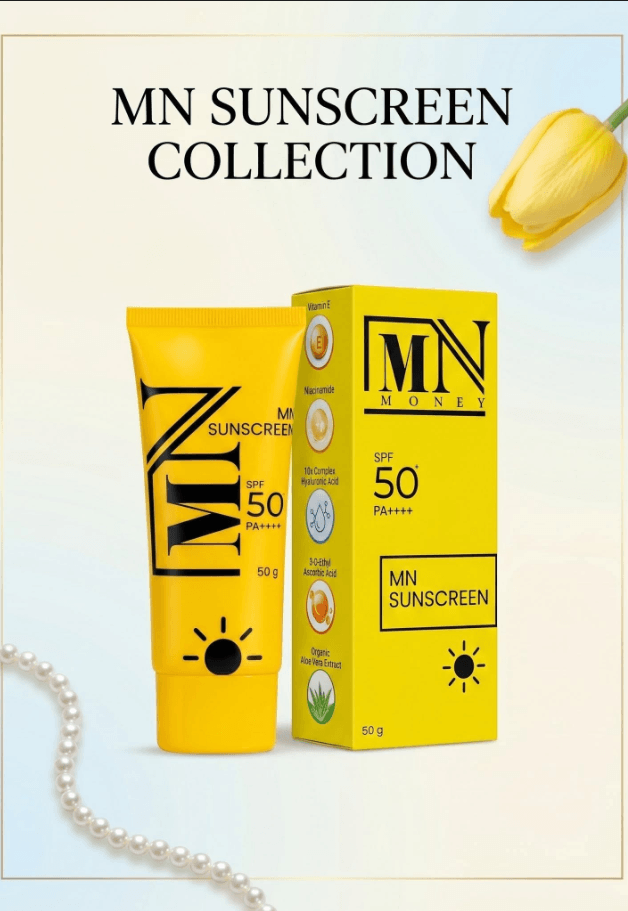
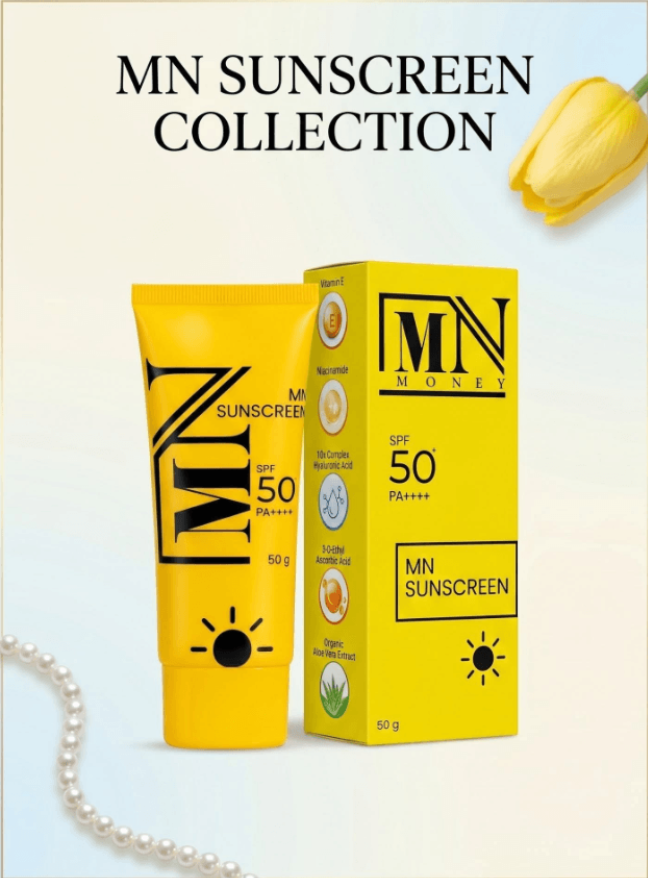
last push

diff --git a/style.css b/style.css
@@ -306,7 +306,8 @@ p {
 }
 
 .img-placeholder {
-  background: linear-gradient(135deg, var(--color-beige) 0%, var(--color-pink) 100%);
+  
+  background: black;
   display: grid;
   place-items: center;
   color: rgba(255, 255, 255, 0.85);
@@ -316,7 +317,9 @@ p {
   border-radius: var(--radius-md);
 }
 .img-placeholder-home {
-  background: linear-gradient(135deg, var(--color-beige) 0%, var(--color-pink) 100%);
+  width: 100%;
+  overflow: hidden;
+  background: black;
   display: grid;
   place-items: center;
   color: rgba(255, 255, 255, 0.85);
@@ -327,13 +330,13 @@ p {
 }
 
 .img-placeholder.alt-1 { 
-  background: linear-gradient(135deg, var(--color-pink-soft), var(--color-pink-deep)); 
+  background: black; 
 }
 .img-placeholder.alt-2 { 
-  background: linear-gradient(135deg, var(--color-beige-deep), var(--color-gold)); 
+  background: black; 
 }
 .img-placeholder.alt-3 { 
-  background: linear-gradient(135deg, var(--color-cream), var(--color-beige)); 
+ background: black; 
   color: var(--color-gold-deep); 
 }
 
@@ -367,7 +370,7 @@ p {
   place-items: center;
   font-family: var(--font-display);
   font-size: 9rem;
-  color: rgba(255, 255, 255, 0.55);
+  color: rgba(255, 255, 255, 0.391);
   letter-spacing: 8px;
 }
 
@@ -376,6 +379,7 @@ p {
 }
 
 .product-grid {
+  background: #000;
   display: grid;
   grid-template-columns: repeat(auto-fit, minmax(260px, 1fr));
   gap: 40px;
@@ -392,7 +396,6 @@ p {
 }
 
 .product-card:hover {
-  transform: translateY(-8px);
   box-shadow: var(--shadow-card);
 }
 
@@ -409,7 +412,7 @@ p {
 }
 
 .btn-cart {
-  display:f;
+  margin-top: 20px;
   border: #000;
   border-radius: 10px;
   cursor: pointer;
@@ -448,13 +451,19 @@ p {
 }
 
 .price {
+  margin-top: -20px;
+  margin-bottom: -20px;
   font-family: var(--font-display);
   font-size: 1.3rem;
   color: var(--color-gold-deep);
   font-weight: 600;
 }
 
-.stars { color: var(--color-gold); font-size: 0.85rem; margin-bottom: 6px; }
+.stars { 
+  color: var(--color-gold); 
+  font-size: 0.85rem; 
+  margin: -9px 0 0 0; 
+}
 
 .product-card .badge {
   position: absolute;
@@ -490,7 +499,7 @@ p {
   border-radius: 16px;
   overflow: hidden;
   aspect-ratio: 1 / 1;
-  background: var(--color-white);
+  background: rgb(0, 0, 0);
   box-shadow: 0 4px 16px rgba(0, 0, 0, 0.08);
   transition: transform 0.3s ease, box-shadow 0.3s ease;
 }
@@ -632,6 +641,7 @@ p {
 }
 
 .dist-hero {
+  
   height: 1000px;
   width: 100%;
   padding: 120px 0 80px;
@@ -1755,7 +1765,7 @@ p {
 
 .footer-grid {
   display: grid;
-  grid-template-columns: 1.4fr 1.4fr 1.4fr;
+  grid-template-columns: 1.4fr 1.4fr 1.5fr;
   gap: 40px;
   margin-bottom: 50px;
 }
@@ -1968,7 +1978,7 @@ p {
     margin: -20px 2px;
   }
   .about-section { 
-    padding: 60px 24px; 
+    padding: 30px 24px; 
     min-height: unset; 
   }
   .about-grid    { 
@@ -2041,6 +2051,7 @@ p {
     max-width: 420px; 
   }
 
+
   .location-wrapper { 
     flex-direction: column; 
   }
@@ -2048,6 +2059,10 @@ p {
     aspect-ratio: 4 / 3; 
   }
 
+  .talk-section    {
+    padding: 56px 20px 48px; 
+    margin-top: 40px;
+  }
   .process-section { 
     padding: 64px 20px 80px; 
   }
@@ -2206,6 +2221,7 @@ p {
   }
   .talk-section    {
     padding: 56px 20px 48px; 
+    margin-top: 40px;
   }
   .about-img-wrap{
     margin-left: 40px;

diff --git a/index.html b/index.html
@@ -43,7 +43,7 @@
   <section class="secton-home">
     <div class="container hero-grid-home">
       <div class="hero-visual">
-        <img src="img/image copy 12.png" alt="Owner of MN Skincare" class="hero-image" />
+        <img style="position: absolute;" src="img/image copy 12.png" alt="Owner of MN Skincare"  />
       </div>
       <div class="hero-content-home">
         <h1>MN Skincare Shopping</h1>
@@ -56,8 +56,8 @@
     </div>
   </section>
 
-  <section class="section" id="1" style="background-color: black; margin-top: 100px;">
-    <div class="container">
+  <section class="section" id="1" style="background-color: black; margin-top: 100px; ">
+    <div class="container" >
       <div class="section-title">
         <span class="eyebrow">Best Sellers</span>
         <h2>Best Seller in Stock</h2>
@@ -344,15 +344,14 @@
             <li><i class="bi bi-map" style="margin-right: 10px;"></i>Phnom Penh, Cambodia</li>
             <li><i class="bi bi-telephone" style="margin-right: 10px;"></i>[phone redacted]</li>
             <li><i class="bi bi-telephone" style="margin-right: 10px;"></i>[phone redacted]</li>
-            <li><i class="bi bi-envelope" style="margin-right: 10px;"></i><span style="font-size: 11px;">[email redacted]</span></li>
-            <li><i class="bi bi-envelope" style="margin-right: 10px;"></i><span style="font-size: 10px;">[email redacted]</span></li>
+            <li><i class="bi bi-envelope" style="margin-right: 10px;"></i><span>[email redacted]</span></li>
+            <li><i class="bi bi-envelope" style="margin-right: 10px;"></i><span>[email redacted]</span></li>
           </ul>
         </div>
-
       </div>
     </div>
     <hr>
-    <p style="text-align: center; margin-top: 30px;">"Chey Menghout" 2026 © For educational purposes only.</p>
+    <p style="text-align: center; margin-top: 30px;">"[email redacted]" 2026 © For educational purposes only.</p>
   </footer>
 
 </body>

diff --git a/about.html b/about.html
@@ -33,7 +33,7 @@
     </ul>
   </nav>
 
-   <section class="about-section" style="margin-top: 60px;">
+   <section class="about-section" style="margin-top: 40px;">
     <div class="about-bg">
       <div class="bg-slide slide-1"></div>
       <div class="bg-slide slide-2"></div>
@@ -46,7 +46,7 @@
 
     <div class="container-about about-grid">
       <div class="about-img-wrap">
-        <img src="img/image copy 68.png" alt="MN Beauty">
+        <img style="position: static;" src="img/image copy 68.png" alt="MN Beauty">
       </div>
       <div class="about-content">
         <span class="eyebrow">Story of MN</span>
@@ -264,15 +264,15 @@
             <li><i class="bi bi-map" style="margin-right: 10px;"></i>Phnom Penh, Cambodia</li>
             <li><i class="bi bi-telephone" style="margin-right: 10px;"></i>[phone redacted]</li>
             <li><i class="bi bi-telephone" style="margin-right: 10px;"></i>[phone redacted]</li>
-            <li><i class="bi bi-envelope" style="margin-right: 10px;"></i><span style="font-size: 11px;">[email redacted]</span></li>
-            <li><i class="bi bi-envelope" style="margin-right: 10px;"></i><span style="font-size: 10px;">[email redacted]</span></li>
+            <li><i class="bi bi-envelope" style="margin-right: 10px;"></i><span >[email redacted]</span></li>
+            <li><i class="bi bi-envelope" style="margin-right: 10px;"></i><span >[email redacted]</span></li>
           </ul>
         </div>
 
       </div>
     </div>
     <hr>
-    <p style="text-align: center; margin-top: 30px;">"Chey Menghout" 2026 © For educational purposes only.</p>
+    <p style="text-align: center; margin-top: 30px;">"[email redacted]" 2026 © For educational purposes only.</p>
   
   </footer>
 

diff --git a/services.html b/services.html
@@ -315,7 +315,7 @@
             <h3>Mask MN</h3>
             <div class="price">1,500៛</div>
 
-<button class="btn-cart" aria-label="Add to cart">
+            <button class="btn-cart" aria-label="Add to cart">
               <i class="bi bi-cart">Add to cart</i>
             </button>          </div>
         </a>
@@ -327,7 +327,7 @@
   <section class="section" id="services" style="margin-top: 10px;">
     <div class="container about-grid services-container">
       <div>
-        <img src="img/image copy 47.png" alt="MN Collection" class="about-image" style="border-radius: 100px;">
+        <img style="position: static;" src="img/image copy 47.png" alt="MN Collection" class="about-image" style="border-radius: 100px;">
       </div>
       <div class="services-content">
         <span class="eyebrow" style="background-color: var(--color-beige); padding: 12px; border-radius: 12px;">MN COLLECTION</span>
@@ -644,15 +644,15 @@
             <li><i class="bi bi-map" style="margin-right: 10px;"></i>Phnom Penh, Cambodia</li>
             <li><i class="bi bi-telephone" style="margin-right: 10px;"></i>[phone redacted]</li>
             <li><i class="bi bi-telephone" style="margin-right: 10px;"></i>[phone redacted]</li>
-            <li><i class="bi bi-envelope" style="margin-right: 10px;"></i><span style="font-size: 11px;">[email redacted]</span></li>
-            <li><i class="bi bi-envelope" style="margin-right: 10px;"></i><span style="font-size: 10px;">[email redacted]</span></li>
+            <li><i class="bi bi-envelope" style="margin-right: 10px;"></i><span >[email redacted]</span></li>
+            <li><i class="bi bi-envelope" style="margin-right: 10px;"></i><span >[email redacted]</span></li>
           </ul>
         </div>
 
       </div>
     </div>
     <hr>
-    <p style="text-align: center; margin-top: 30px;">"Chey Menghout" 2026 © For educational purposes only.</p>
+    <p style="text-align: center; margin-top: 30px;">"[email redacted]" 2026 © For educational purposes only.</p>
   
   </footer>
 

diff --git a/contact.html b/contact.html
@@ -155,15 +155,15 @@
             <li><i class="bi bi-map" style="margin-right: 10px;"></i>Phnom Penh, Cambodia</li>
             <li><i class="bi bi-telephone" style="margin-right: 10px;"></i>[phone redacted]</li>
             <li><i class="bi bi-telephone" style="margin-right: 10px;"></i>[phone redacted]</li>
-            <li><i class="bi bi-envelope" style="margin-right: 10px;"></i><span style="font-size: 11px;">[email redacted]</span></li>
-            <li><i class="bi bi-envelope" style="margin-right: 10px;"></i><span style="font-size: 10px;">[email redacted]</span></li>
+            <li><i class="bi bi-envelope" style="margin-right: 10px;"></i><span>[email redacted]</span></li>
+            <li><i class="bi bi-envelope" style="margin-right: 10px;"></i><span>[email redacted]</span></li>
           </ul>
         </div>
 
       </div>
     </div>
     <hr>
-    <p style="text-align: center; margin-top: 30px;">"Chey Menghout" 2026 © For educational purposes only.</p>
+    <p style="text-align: center; margin-top: 30px;">"[email redacted]" 2026 © For educational purposes only.</p>
   
   </footer>
 